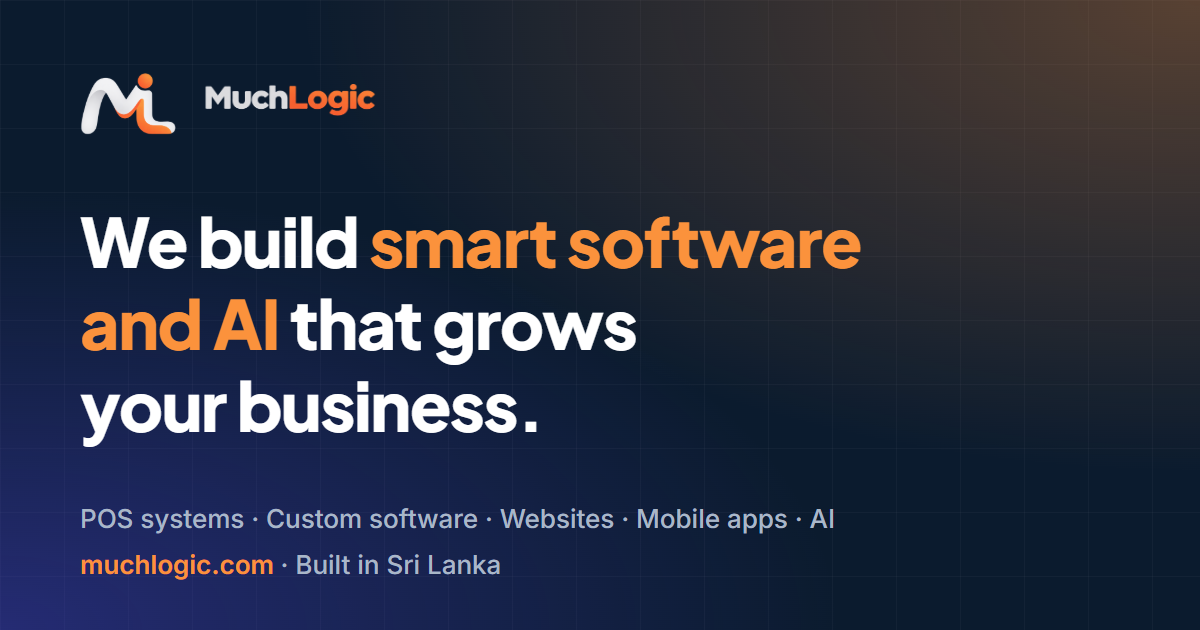
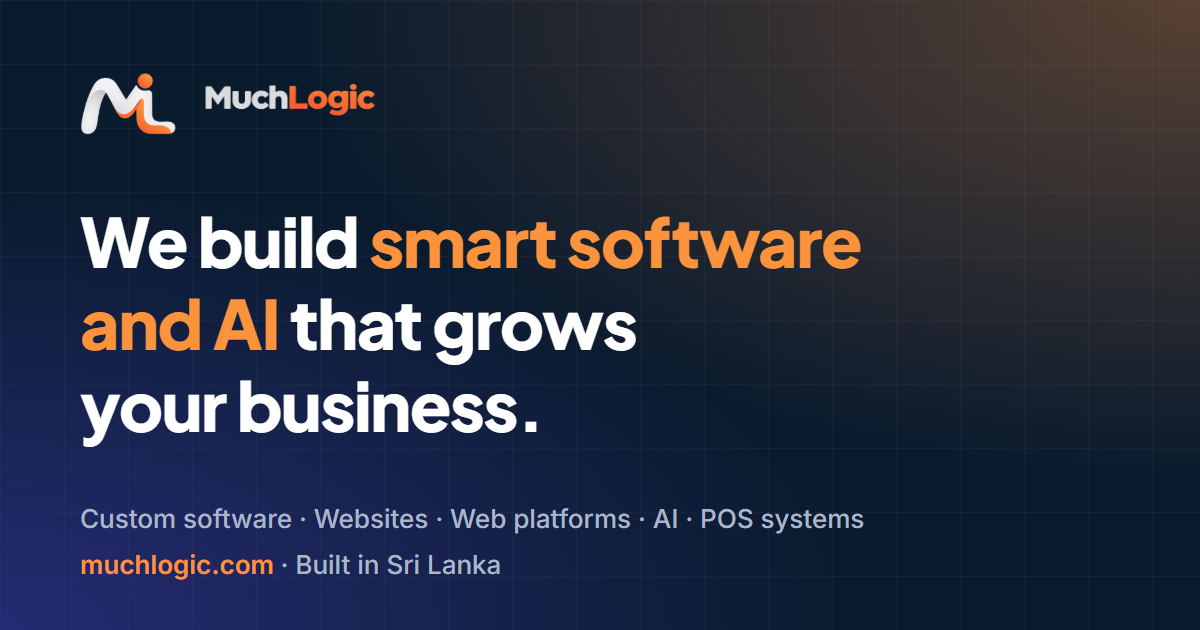
Rebalance positioning: lead with custom software, websites and AI
POS is now presented as one service among several rather than the main focus.

- Home title "Custom Software, Web & AI Solutions in Sri Lanka", new hero subtext
- Meta descriptions for Home, Services, About, Contact and Work lead with custom
  software, websites, web platforms and AI; POS listed later, not by product name
- Footer tagline, site description (JSON-LD), web manifest and share image text updated
- Services, About and Work hero text no longer open with POS
- Project order: Designkoolama.lk, AgriLink, MuchLogic POS, Shanu Ceylon Tours
  (Home featured order follows); filter chips start with Websites and Web Platforms
- Service order: Custom Software, Web & E-commerce, AI & Automation, POS Systems,
  Mobile Apps, Brand & Digital Marketing
- MuchLogic POS case study and POS service content unchanged

Changed region(s): [[0.0617, 0.7841, 0.74, 0.8444]]

diff --git a/src/data/projects.ts b/src/data/projects.ts
@@ -5,11 +5,12 @@
  * (e.g. image: 'muchlogic-pos.webp'). Empty or missing files fall back to a neutral placeholder.
  */
 
+/** Order here = order of the filter chips on /work */
 export const projectCategories = [
-  'POS & Retail',
-  'Web Platforms',
   'Websites',
+  'Web Platforms',
   'AI & Automation',
+  'POS & Retail',
   'Mobile Apps',
   'Healthcare',
 ] as const;
@@ -47,25 +48,6 @@ export interface Project {
 /** Every project, including hidden ones. Use `projects` everywhere else. */
 const allProjects: Project[] = [
   {
-    slug: 'muchlogic-pos',
-    title: 'MuchLogic POS',
-    category: 'POS & Retail',
-    client: 'Internal product',
-    industry: 'Retail',
-    summary: 'Offline-first POS and inventory software for Windows retail businesses.',
-    description:
-      'MuchLogic POS is our own point of sale and inventory software for Windows retail businesses. It is built offline-first, so shops can keep billing even without an internet connection.',
-    whatWeDid: [
-      'TODO: confirm what to list here (e.g. product design, development, support)',
-    ],
-    tech: [], // TODO: confirm tech stack (the design contradicts itself)
-    downloadUrl: 'https://apps.microsoft.com/detail/9NH6BKDXQSQW?hl=en-us&gl=US&ocid=pdpshare',
-    image: 'muchlogic-pos.webp',
-    imageAlt: 'MuchLogic POS till screen showing a bill with items, quantities, discounts and payment options',
-    featured: true,
-    services: ['pos-systems'],
-  },
-  {
     slug: 'designkoolama',
     title: 'Designkoolama.lk',
     category: 'Websites',
@@ -89,22 +71,6 @@ const allProjects: Project[] = [
     services: ['web-ecommerce'],
   },
   {
-    slug: 'shanu-ceylon-tours',
-    title: 'Shanu Ceylon Tours',
-    category: 'Websites',
-    client: 'Shanu Ceylon Tours', // TODO: confirm client name
-    industry: 'Tourism',
-    summary: 'Tour company website for shanuceylontours.com.',
-    description: 'Tour company website for shanuceylontours.com.', // TODO: confirm description and status
-    whatWeDid: ['TODO: confirm what we did'],
-    tech: [], // TODO: confirm tech stack
-    // liveUrl: 'https://shanuceylontours.com', // TODO: confirm the site is live before enabling
-    image: '', // TODO: add screenshot, e.g. 'shanu-ceylon-tours.webp'
-    imageAlt: 'Shanu Ceylon Tours website homepage',
-    featured: false,
-    services: ['web-ecommerce'],
-  },
-  {
     slug: 'agrilink',
     title: 'AgriLink',
     category: 'Web Platforms',
@@ -124,6 +90,41 @@ const allProjects: Project[] = [
     imageAlt: 'AgriLink marketplace dashboard',
     featured: true,
     services: ['custom-software'],
+  },
+  {
+    slug: 'muchlogic-pos',
+    title: 'MuchLogic POS',
+    category: 'POS & Retail',
+    client: 'Internal product',
+    industry: 'Retail',
+    summary: 'Offline-first POS and inventory software for Windows retail businesses.',
+    description:
+      'MuchLogic POS is our own point of sale and inventory software for Windows retail businesses. It is built offline-first, so shops can keep billing even without an internet connection.',
+    whatWeDid: [
+      'TODO: confirm what to list here (e.g. product design, development, support)',
+    ],
+    tech: [], // TODO: confirm tech stack (the design contradicts itself)
+    downloadUrl: 'https://apps.microsoft.com/detail/9NH6BKDXQSQW?hl=en-us&gl=US&ocid=pdpshare',
+    image: 'muchlogic-pos.webp',
+    imageAlt: 'MuchLogic POS till screen showing a bill with items, quantities, discounts and payment options',
+    featured: true,
+    services: ['pos-systems'],
+  },
+  {
+    slug: 'shanu-ceylon-tours',
+    title: 'Shanu Ceylon Tours',
+    category: 'Websites',
+    client: 'Shanu Ceylon Tours', // TODO: confirm client name
+    industry: 'Tourism',
+    summary: 'Tour company website for shanuceylontours.com.',
+    description: 'Tour company website for shanuceylontours.com.', // TODO: confirm description and status
+    whatWeDid: ['TODO: confirm what we did'],
+    tech: [], // TODO: confirm tech stack
+    // liveUrl: 'https://shanuceylontours.com', // TODO: confirm the site is live before enabling
+    image: '', // TODO: add screenshot, e.g. 'shanu-ceylon-tours.webp'
+    imageAlt: 'Shanu Ceylon Tours website homepage',
+    featured: false,
+    services: ['web-ecommerce'],
   },
   {
     slug: 'doc365',

diff --git a/src/data/services.ts b/src/data/services.ts
@@ -58,21 +58,21 @@ export const services: Service[] = [
     imageAlt: 'Illustration of a custom business dashboard',
   },
   {
-    slug: 'pos-systems',
-    title: 'POS Systems',
-    headline: 'A POS that keeps selling, even offline.',
-    summary: 'MuchLogic POS: offline-first sales and inventory for retail shops.',
+    slug: 'web-ecommerce',
+    title: 'Web & E-commerce',
+    headline: 'A digital storefront that converts.',
+    summary: 'Fast websites and online stores that turn visitors into customers.',
     description:
-      'MuchLogic POS is our own point of sale and inventory software for Windows retail businesses. It keeps selling even when the internet goes down.',
+      'Modern, fast and search-friendly websites and online stores that are easy for you to update and easy for customers to use.',
     bullets: [
-      'Fast billing that works offline',
-      'Stock, purchasing and supplier tracking',
-      'Sales reports to help you make decisions',
+      'Company websites and landing pages',
+      'Online stores with payments and delivery',
+      'SEO-friendly, fast and mobile-first',
     ],
-    icon: 'monitor',
-    ctaLabel: 'Book a demo',
-    workCategory: 'POS & Retail',
-    imageAlt: 'Illustration of a point of sale screen on a Windows computer',
+    icon: 'globe',
+    ctaLabel: 'Discuss this service',
+    workCategory: 'Websites',
+    imageAlt: 'Illustration of a responsive website on desktop and mobile',
   },
   {
     slug: 'ai-automation',
@@ -92,21 +92,21 @@ export const services: Service[] = [
     imageAlt: 'Illustration of an automated workflow',
   },
   {
-    slug: 'web-ecommerce',
-    title: 'Web & E-commerce',
-    headline: 'A digital storefront that converts.',
-    summary: 'Fast websites and online stores that turn visitors into customers.',
+    slug: 'pos-systems',
+    title: 'POS Systems',
+    headline: 'A POS that keeps selling, even offline.',
+    summary: 'MuchLogic POS: offline-first sales and inventory for retail shops.',
     description:
-      'Modern, fast and search-friendly websites and online stores that are easy for you to update and easy for customers to use.',
+      'MuchLogic POS is our own point of sale and inventory software for Windows retail businesses. It keeps selling even when the internet goes down.',
     bullets: [
-      'Company websites and landing pages',
-      'Online stores with payments and delivery',
-      'SEO-friendly, fast and mobile-first',
+      'Fast billing that works offline',
+      'Stock, purchasing and supplier tracking',
+      'Sales reports to help you make decisions',
     ],
-    icon: 'globe',
-    ctaLabel: 'Discuss this service',
-    workCategory: 'Websites',
-    imageAlt: 'Illustration of a responsive website on desktop and mobile',
+    icon: 'monitor',
+    ctaLabel: 'Book a demo',
+    workCategory: 'POS & Retail',
+    imageAlt: 'Illustration of a point of sale screen on a Windows computer',
   },
   {
     slug: 'mobile-apps',

diff --git a/src/data/site.ts b/src/data/site.ts
@@ -14,9 +14,9 @@ export const site = {
   name: 'MuchLogic',
   legalName: 'MuchLogic', // TODO: confirm registered legal name (e.g. "MuchLogic (Pvt) Ltd")
   url: 'https://muchlogic.com',
-  tagline: 'Software, POS systems and AI solutions for modern businesses.',
+  tagline: 'Custom software, websites and AI solutions for modern businesses.',
   description:
-    'MuchLogic is a Sri Lankan software company building POS systems, custom software, websites, mobile apps and AI automation for growing businesses.',
+    'MuchLogic is a Sri Lankan software company building custom software, websites, web platforms, AI automation, mobile apps and POS systems for growing businesses.',
 
   location: {
     country: 'Sri Lanka',

diff --git a/README.md b/README.md
@@ -1,6 +1,6 @@
 # MuchLogic website
 
-The marketing website for **MuchLogic** ([muchlogic.com](https://muchlogic.com)), a Sri Lankan software company that makes MuchLogic POS and builds custom software, websites, mobile apps and AI automation.
+The marketing website for **MuchLogic** ([muchlogic.com](https://muchlogic.com)), a Sri Lankan software company that builds custom software, websites, web platforms, AI automation and mobile apps, and makes MuchLogic POS.
 
 The site is fast and mostly static: every page is built ahead of time as plain HTML. The only part that runs on a server is the contact form, which sends each inquiry by email (Resend) and to WhatsApp (CallMeBot).
 
@@ -142,7 +142,7 @@ Tips:
 
 1. Open `src/data/projects.ts` and copy an existing project block.
 2. Give it a unique `slug` (lowercase, dashes only, e.g. `colombo-bakery`). This becomes the URL `/work/colombo-bakery`.
-3. Fill in the fields. Use one of the existing `category` values (POS & Retail, Web Platforms, Websites, AI & Automation, Mobile Apps, Healthcare).
+3. Fill in the fields. Use one of the existing `category` values (Websites, Web Platforms, AI & Automation, POS & Retail, Mobile Apps, Healthcare). The order of `projects` and `projectCategories` in the file is the order shown on the site.
 4. Optional fields: `liveUrl` (adds a “Visit live site” button), `prototype: true` (shows a Prototype badge), `featured: true` (shows it on the home page; keep it to 3 featured projects), `hidden: true` (keeps it off the site completely until it’s ready).
 
 The project automatically appears on `/work`, in the filters and counter, in the previous/next links and in the sitemap. A new category gets its own filter button automatically.
